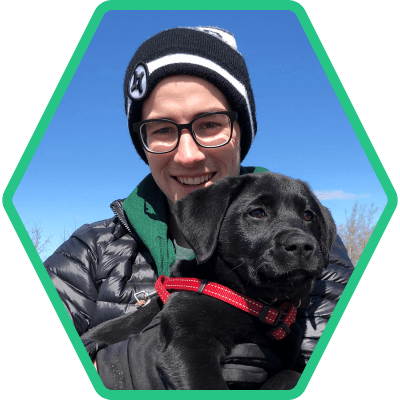
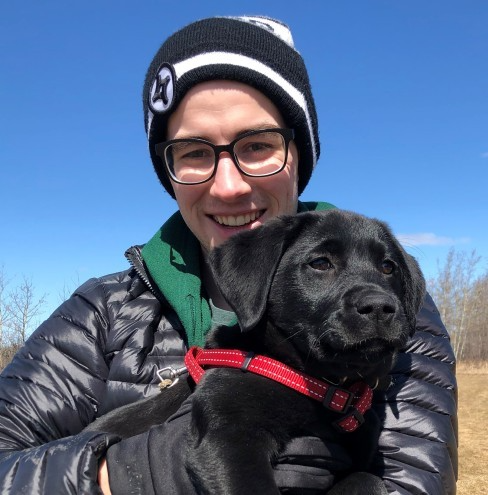
Update the about me image and the surrounding frame

diff --git a/src/sass/pages/_about.scss b/src/sass/pages/_about.scss
@@ -13,13 +13,37 @@
 	}
 
 	&__image {
-		width: 100%;
+		width: 95%;
 		height: auto;
 
-		transition: transform 0.3s;
+		clip-path: polygon(25% 0, 75% 0, 100% 50%, 75% 100%, 25% 100%, 0% 50%);
 
-		&:hover {
-			transform: scale(1.02);
+		&__container {
+			display: flex;
+			justify-content: center;
+			align-items: center;
+
+			width: 50rem;
+			height: 50rem;
+		}
+
+		&__frame {
+			width: 95%;
+			height: 95%;
+
+			display: flex;
+			justify-content: center;
+			align-items: center;
+
+			background-color: var(--color-primary);
+			clip-path: polygon(25% 0, 75% 0, 100% 50%, 75% 100%, 25% 100%, 0% 50%);
+
+			transition: all 0.2s ease-in-out;
+
+			&:hover {
+				width: 100%;
+				height: 100%;
+			}
 		}
 	}
 

diff --git a/src/index.html b/src/index.html
@@ -70,7 +70,11 @@
 			<section class="about">
 				<h2 class="about__title">About me</h2>
 				<div class="about__content">
-					<img class="about__image" src="./assets/me.png" alt="Picture of me"></img>
+					<div class="about__image__container">
+						<div class="about__image__frame">
+							<img class="about__image" src="./assets/me.png" alt="Picture of me"/>
+						</div>
+					</div>
 						<p class="about__text">
 							I am a 4th year Software Engineering Student at the University of Alberta.
 							I have experience in creating mobile apps for iOS using Swift (iOS) and Java (Android),

diff --git a/src/sass/pages/_projects.scss b/src/sass/pages/_projects.scss
@@ -69,8 +69,7 @@
 
 	&__tech {
 		// This filter turns the image to the primary color, credit to https://codepen.io/sosuke/pen/Pjoqqp
-		filter: brightness(0) saturate(100%) invert(62%) sepia(15%) saturate(2134%)
-			hue-rotate(104deg) brightness(102%) contrast(79%);
+		filter: brightness(0) saturate(100%) invert(43%) sepia(28%) saturate(5861%) hue-rotate(239deg) brightness(95%) contrast(96%);;
 		height: 3rem;
 		width: auto;
 		margin-bottom: 3rem;
